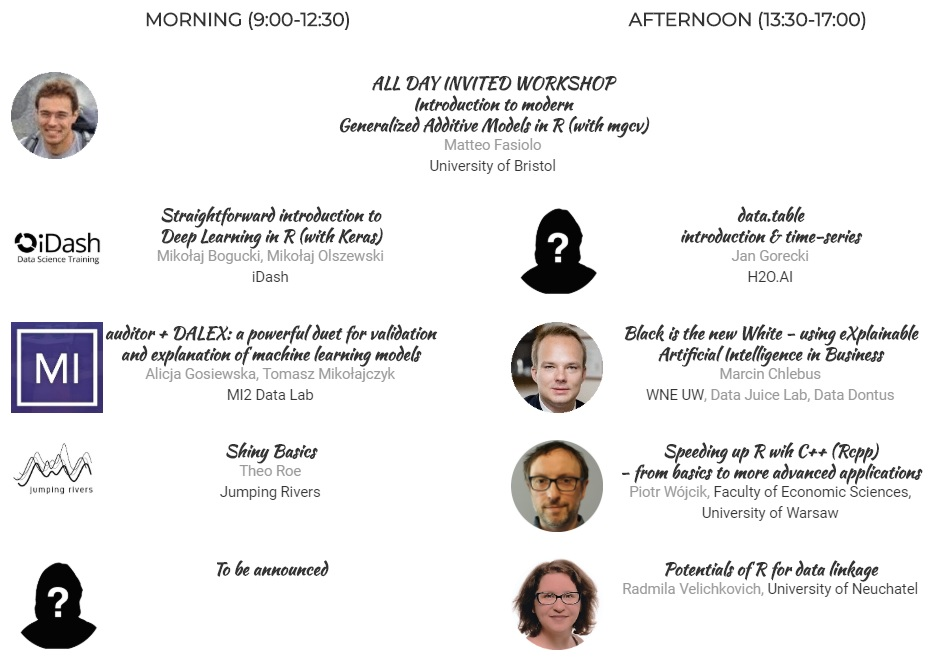
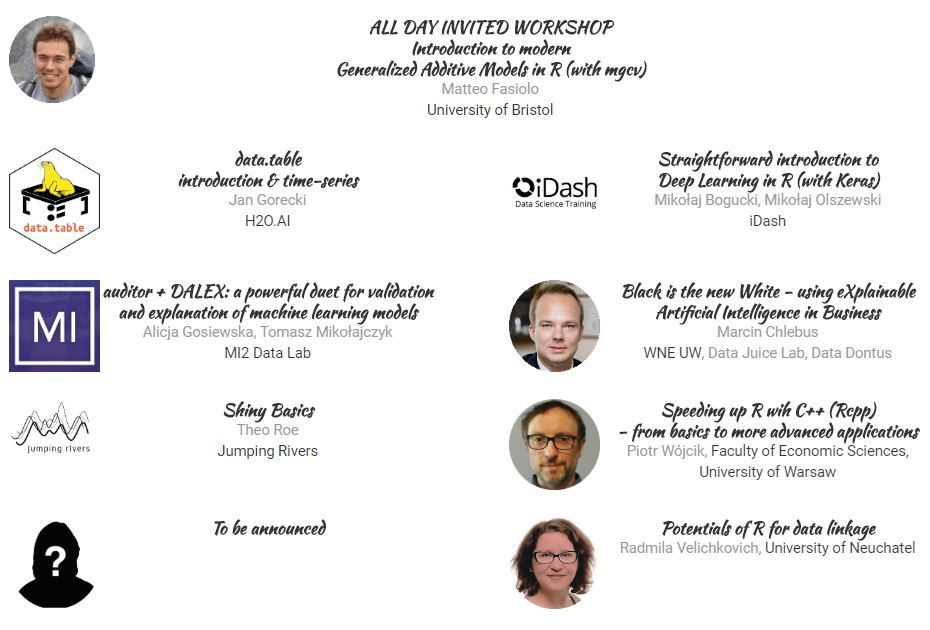
update cover photo on the keynotes and workshops announcement

diff --git a/_posts/2019-06-09-WhyR-2019-Keynotes-Workshops-Announced.md b/_posts/2019-06-09-WhyR-2019-Keynotes-Workshops-Announced.md
@@ -16,7 +16,7 @@ output:
     keep_md: true
 ---
 
-<img src="/foundation/images/fulls/whyr2019/tlosptronam_small.jpg" class="fit image"> Why R? is one of the best opportunities to learning secrets of data science from true experts. This year we are happy to invite you for six keynote presentations, one invited workshop and eight regular workshops.
+<img src="/foundation/images/fulls/whyr2019/deadline_1_2.jpg" class="fit image"> Why R? is one of the best opportunities to learning secrets of data science from true experts. This year we are happy to invite you for six keynote presentations, one invited workshop and eight regular workshops.
 
 # About the **Why R? 2019** conference
 
